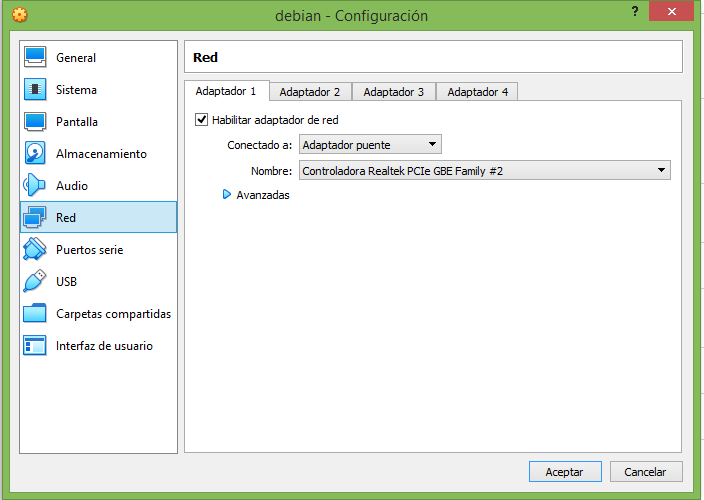
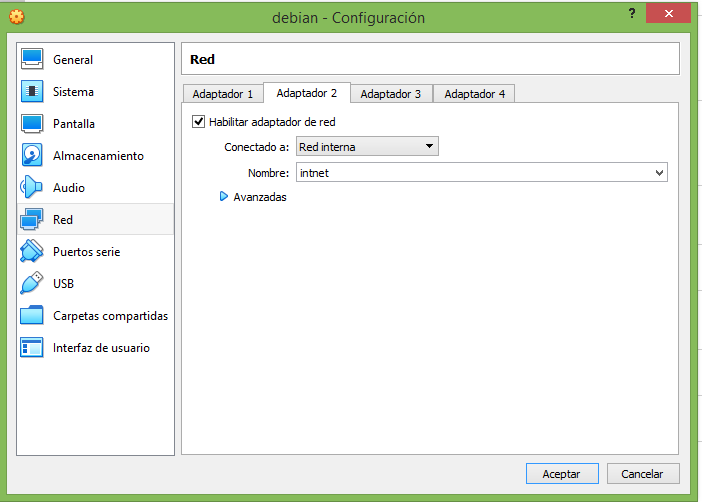
debian-11

Changed region(s): [[0.0, 0.0, 1.0, 1.0]]

diff --git a/README.md b/README.md
@@ -60,6 +60,6 @@ Te ayudamos con la instalación de linux_debian
 
 ![img](imagenes_debian/imagen14.PNG)
 
-10.6. por ultimo en la red, el adaptador 1 debe estar conectado al adaptado puente.
+10.6. por ultimo en la red, el adaptador 2 se habilita y debe estar conectado a la red interna.
 
 ![img](imagenes_debian/imagen15.PNG)
